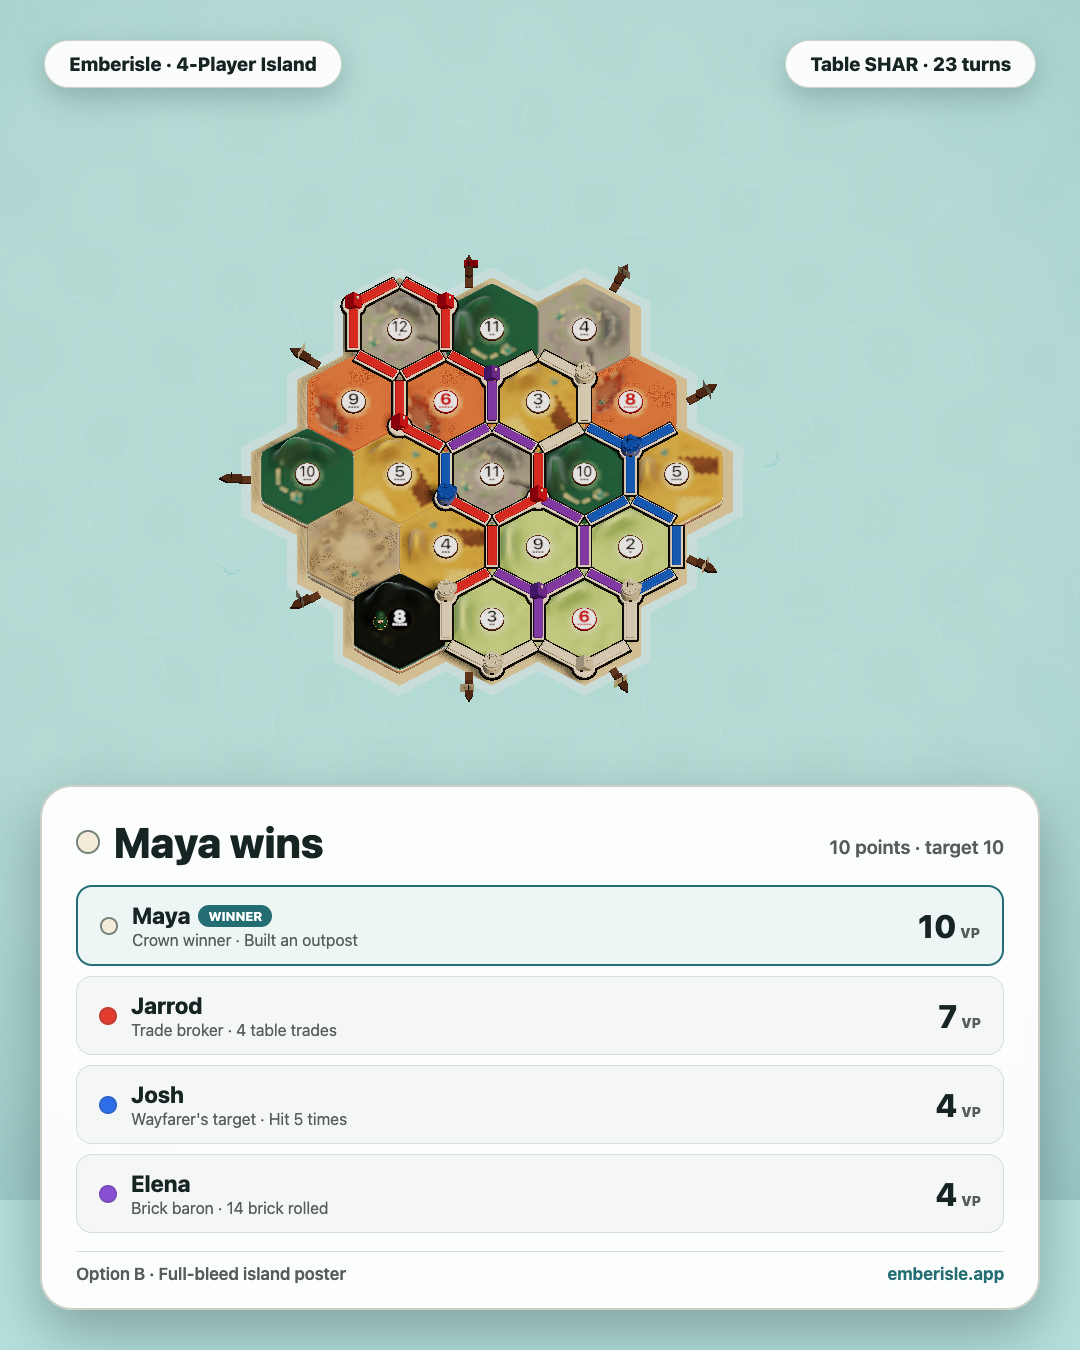
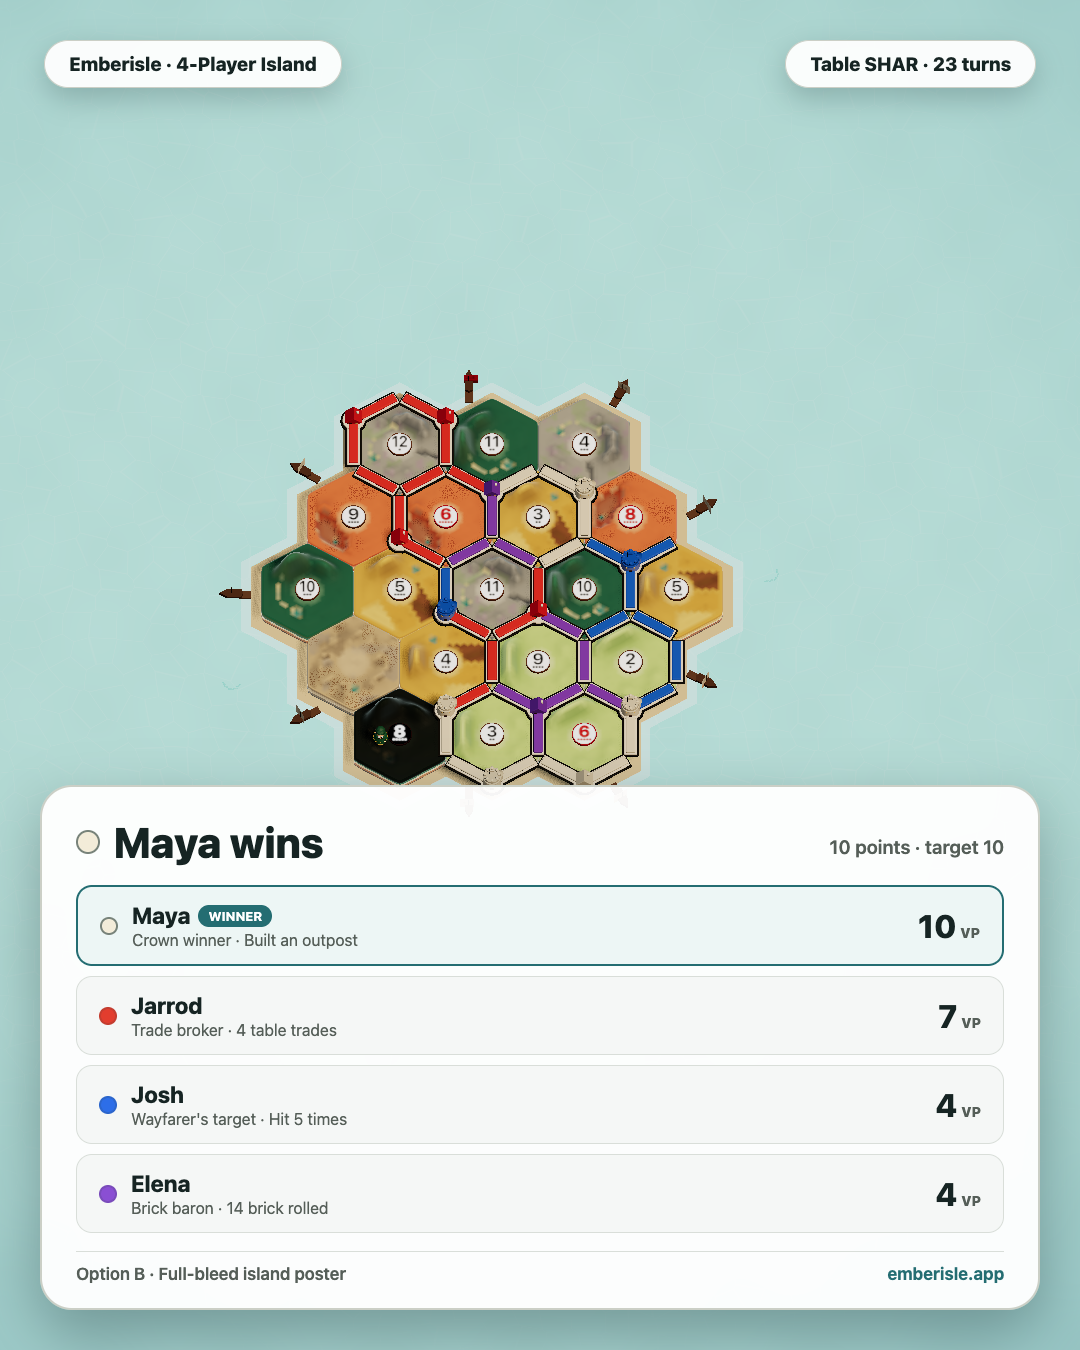
docs(design): add 3p/5p share cards, fix Option B seam, and measure layout (#1454)
Address all five Haiku 5.5 review items on PR #1632.
Add 3-seat (minimum real table size, board.ts:199) and 5-seat (first expanded) cards at 1080x1350 and 1080x1920.
Fix Option B sea backdrop with a 1080x1600 WebGL capture; pixel check shows maxJump=1 across y=1150..1345.
Verify zero bounding-box overlap on all Option A cards and disclose WinScreen mock details.

Changed region(s): [[0.2139, 0.1867, 0.7028, 0.5911], [0.8556, 0.9333, 1.0, 1.0], [0.0, 0.9644, 0.0306, 1.0]]

diff --git a/docs/design/share-card/README.md b/docs/design/share-card/README.md
@@ -10,8 +10,8 @@
 The owner picked the top three fun features from #1450 on 2026-11-08.
 This design packet covers item three: the share-your-game card.
 A Share button on the results screen generates one image of the finished game.
-The image combines the final 3D island, final standings for 2–6 players, and island awards from #1452.
-Players can post the card directly to Threads, Instagram, and messaging apps (DECISIONS 2026-10-27).
+The image combines the final 3D island, final standings for 3–6 seats, and island awards from #1452.
+DECISIONS 2026-10-27 motivates sharing finished games on Threads and Instagram.
 
 ## 2. Open Owner Decisions
 This packet proposes two design choices for the owner to pick on Issue #1454.
@@ -37,46 +37,55 @@ Two card styles render the real 3D final island at exact social dimensions:
 
 - **Option A (Recommended) — Ocean-framed tray card:**
   Frames a crisp white Emberisle tray card inside a deep crystal-sea border.
-  The final 3D island sits cleanly in its own panel above the standings.
-  Every hex, dock, and building stays completely visible with zero overlap.
+  The final 3D island sits in its own panel above the standings.
+  [capture.mjs](capture.mjs) verifies bounding boxes for every Option A card so no section or row overlaps.
 - **Option B — Full-bleed island poster:**
-  Fills the canvas edge-to-edge with the crystal sea and 3D island.
+  Fills the canvas edge-to-edge with one continuous crystal-sea and 3D island render.
   A floating white results tray overlays the bottom half, mirroring the live WinScreen.
 
 | Option A — Ocean-framed tray (Recommended) | Option B — Full-bleed poster |
 |---|---|
 | ![Option A 1080x1350](card-1080x1350-4p.png) | ![Option B 1080x1350](card-1080x1350-option-b.png) |
 
-## 3. Card Formats for 2–6 Player Tables
-Emberisle supports 2–4 player classic islands (19 hexes) and 5–6 player expanded islands (30 hexes).
-Expanded tables use the six certified colours in `src/lib/game/expanded.ts:44` (`EXPANDED_COLORS`) and `expanded.ts:48` (`EXPANDED_SEATS`).
-Both card ratios adapt cleanly from two seats up to six seats.
+## 3. Card Formats for 3–6 Seat Tables
+Emberisle tables always run with 3–6 seats.
+Classic islands hold 3–4 seats (`src/lib/game/board.ts:199` adds a bot below three).
+Expanded islands hold 5–6 seats (`src/lib/game/expanded.ts:44-48`, `EXPANDED_COLORS`, `EXPANDED_SEATS`).
+Pictures below cover every real seat count: 3-seat (emptiest classic), 4-seat classic, 5-seat (first expanded), and 6-seat expanded.
 
 ### Portrait Feed: 1080 × 1350 px (4:5 Ratio)
 Targeted at Instagram and Threads feed posts.
-- **2–4 players:** Single-column standings stack under the 19-hex island render.
-- **5–6 players:** Compact two-column standings grid under the 30-hex island render.
-  All six player names, seat colour dots, scores, and award lines stay readable without clipping.
+- **3–4 seats:** Single-column standings stack under the 19-hex island render; 3-seat cards give the island extra height.
+- **5–6 seats:** Compact two-column standings grid under the 30-hex island render.
+  On 5-seat cards, the winner spans the full width above a two-by-two grid for seats two through five.
 
-| 4-Player Classic (1080 × 1350) | 6-Player Expanded (1080 × 1350) |
+| 3-Player Classic (1080 × 1350) | 4-Player Classic (1080 × 1350) |
 |---|---|
-| ![4p Feed](card-1080x1350-4p.png) | ![6p Feed](card-1080x1350-6p.png) |
+| ![3p Feed](card-1080x1350-3p.png) | ![4p Feed](card-1080x1350-4p.png) |
+
+| 5-Player Expanded (1080 × 1350) | 6-Player Expanded (1080 × 1350) |
+|---|---|
+| ![5p Feed](card-1080x1350-5p.png) | ![6p Feed](card-1080x1350-6p.png) |
 
 ### Vertical Story: 1080 × 1920 px (9:16 Ratio)
 Targeted at Instagram Stories and full-screen mobile sharing.
 - **Safe zones:** 110 px ocean borders at top and bottom keep content clear of Story UI overlays.
-- **2–6 players:** Single-column standings list fits all six seats with full award text and zero scrolling.
+- **3–6 seats:** Single-column standings list fits every table size from three seats to six seats.
 
-| 4-Player Classic (1080 × 1920) | 6-Player Expanded (1080 × 1920) |
+| 3-Player Classic (1080 × 1920) | 4-Player Classic (1080 × 1920) |
 |---|---|
-| ![4p Story](card-1080x1920-4p.png) | ![6p Story](card-1080x1920-6p.png) |
+| ![3p Story](card-1080x1920-3p.png) | ![4p Story](card-1080x1920-4p.png) |
+
+| 5-Player Expanded (1080 × 1920) | 6-Player Expanded (1080 × 1920) |
+|---|---|
+| ![5p Story](card-1080x1920-5p.png) | ![6p Story](card-1080x1920-6p.png) |
 
 ## 4. Native Share and Download Fallback
 Tapping `Share` composes the PNG blob on an offscreen 2D canvas using the live WebGL snapshot.
 
 - **Web Share API Level 2 (Phones):**
   Check `navigator.canShare?.({ files: [file] })` before calling `navigator.share({ files: [file], title, url })`.
-  iOS Safari and Android Chrome open the native share sheet for Threads, Instagram, Messages, and AirDrop.
+  iOS Safari and Android Chrome open the native share sheet for Threads, Instagram, and other installed share targets.
   Treat `AbortError` as a clean user cancel with no error toast.
 - **Download Fallback (Desktop and unsupported browsers):**
   Create an object URL for the PNG blob and trigger `<a download="emberisle-YYYY-MM-DD.png">`.
@@ -94,9 +103,11 @@ Tapping `Share` composes the PNG blob on an offscreen 2D canvas using the live W
   Step 2 will measure the real built chunk with `npm run build && npm run size-prove` under a desk-set ceiling.
 
 ## 7. How the Mockups Were Captured
-[capture.mjs](capture.mjs) plays real 4-seat and 6-seat games to completion via `createAnyGame` and `chooseBotAction`.
-It renders both finished boards in the real Vite app with Playwright Chromium and captures live WebGL PNGs.
-It also captures both WinScreen button placements on the real 390 × 844 results dialog.
+[capture.mjs](capture.mjs) plays real 3-, 4-, 5-, and 6-seat games to completion via `createAnyGame` and `chooseBotAction`.
+It renders all four finished boards in the live Vite app with Playwright Chromium and captures real WebGL PNGs.
+It verifies zero bounding-box overlap on every Option A card and pixel continuity across Option B's sea backdrop.
+The 390 × 844 placement shots inject a mock `win-share-mock` button into the live WinScreen DOM.
+They force a 44 px height on Option B's header button and fake the `"Play again"` seat state for illustration.
 Run locally under the Playwright lock:
 ```bash
 node --import ./server/register.mjs docs/design/share-card/capture.mjs
